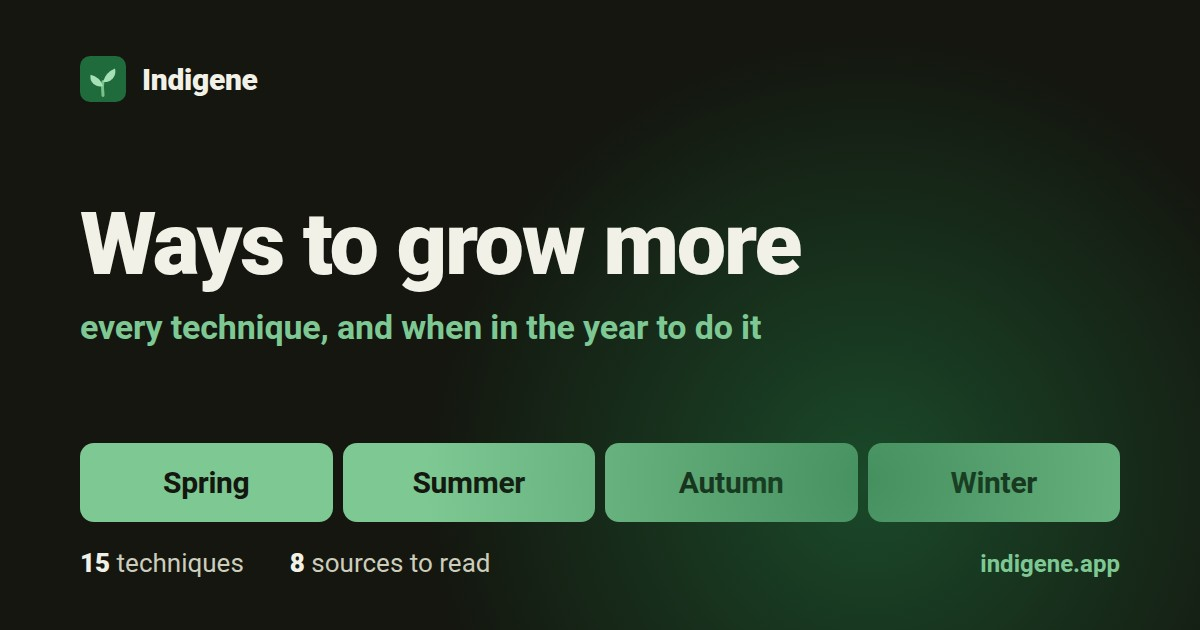
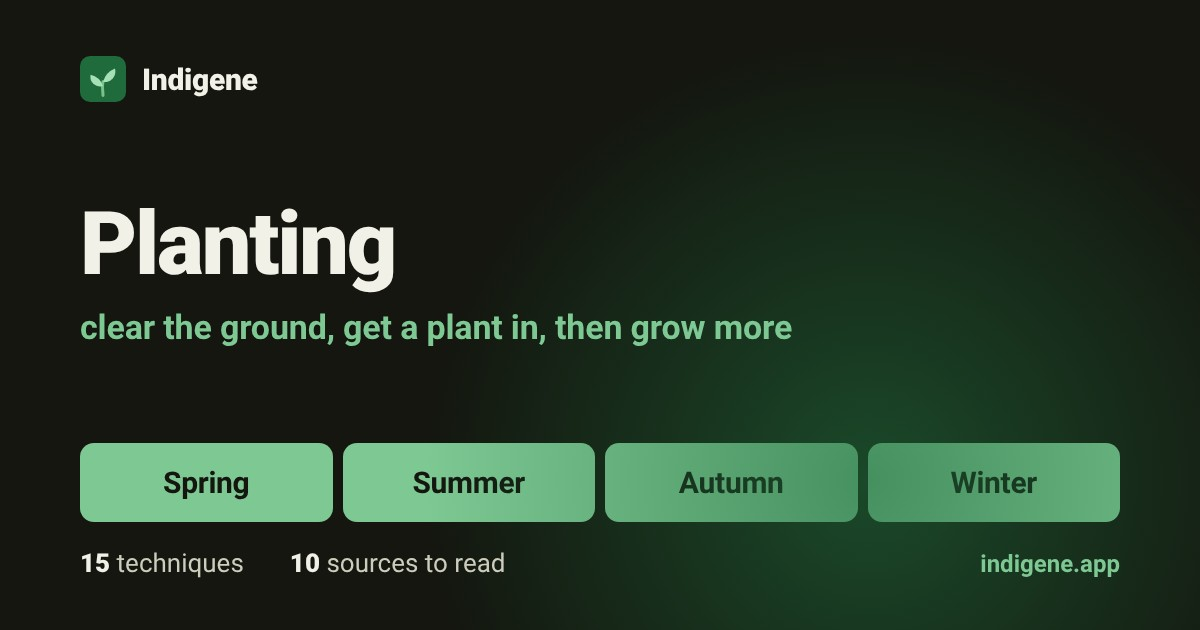
Planting card, links to planting from a pot, and a share button
The Planting page's link preview said Ways to grow more; it now says
Planting. Every plant page's How to grow more card and the lawn guide
link to Planting from a pot. The volunteer page gets a Share this page
button for organizers: the share sheet where there is one, the
clipboard otherwise.

Claude-Session: https://claude.ai/code/session_01Sq9k8BgnwbwYtWVqdCeZQE

diff --git a/app/src/steps/volunteer.ts b/app/src/steps/volunteer.ts
@@ -9,7 +9,7 @@
 // way on.
 //
 // It doesn't overrule the organizer: site rules win, and the page says so.
-import { el, clear } from "../ui";
+import { el, clear, toast } from "../ui";
 import { navigate } from "../state";
 import { t, tx } from "../lib/i18n";
 import type { TKey } from "../locales/en";
@@ -50,6 +50,7 @@ function renderIndex(main: HTMLElement): void {
 
       el("h3", { id: "organizers" }, t("volunteer.orgTitle")),
       el("p", {}, t("volunteer.org1")),
+      el("button", { type: "button", class: "btn btn-secondary btn-block", onClick: () => void share() }, t("volunteer.share")),
       el("p", {}, tx("volunteer.org2", {
         removing: el("a", { href: "#/removing" }, t("volunteer.org2Link")),
       })),
@@ -59,6 +60,19 @@ function renderIndex(main: HTMLElement): void {
       ]),
     ]),
   );
+}
+
+/** Hands the page's link to the phone's share sheet, or copies it. The path
+ *  form, so what an organizer sends previews as this page. */
+async function share(): Promise<void> {
+  const url = `${location.origin}${import.meta.env.BASE_URL}volunteer`;
+  const data = { title: t("volunteer.title"), text: t("volunteer.shareText"), url };
+  if (navigator.share) {
+    await navigator.share(data).catch(() => {});
+    return;
+  }
+  await navigator.clipboard?.writeText(url).catch(() => {});
+  toast(t("plant.linkCopied"));
 }
 
 function renderNotFound(main: HTMLElement, slug: string): void {

diff --git a/app/src/steps/plant.ts b/app/src/steps/plant.ts
@@ -46,7 +46,7 @@ import { anchoredHeading } from "../components/anchor-head";
 import { plantSectionHref, isHashRoute } from "../lib/routes";
 import { privacyNote } from "../components/privacy-link";
 import type { Plant, SiteData, SunEstimate } from "../types";
-import { t, tn, fmtNumber } from "../lib/i18n";
+import { t, tn, tx, fmtNumber } from "../lib/i18n";
 import { length, humanHeightLabel } from "../lib/units";
 import { commonName, nameLines, regionName, regionShort } from "../lib/names";
 import { prose, propagationNote, pioneerNote, isUntranslated, lookalikesUntranslated, alternativesUntranslated } from "../lib/prose";
@@ -1047,6 +1047,10 @@ function propagationSection(p: Plant, regionId: string): HTMLElement {
     el("p", { class: "more-link prop-all" }, [
       el("a", { href: "#/planting" }, `${t("planting.allTechniques")} →`),
     ]),
+    // Growing more ends with a plant to put in the ground; so does buying one.
+    el("p", { class: "more-link prop-all" }, tx("howto.potsWayOn", {
+      link: el("a", { href: "#/planting/pots" }, t("howto.pots.title")),
+    })),
   ]);
 }
 

diff --git a/app/src/steps/lawn.ts b/app/src/steps/lawn.ts
@@ -127,6 +127,10 @@ export async function renderLawn(main: HTMLElement, param?: string): Promise<voi
       p("lawn.mulchLede"),
       el("ol", {}, (["lawn.mulch1", "lawn.mulch2", "lawn.mulch3", "lawn.mulch4", "lawn.mulch5"] as TKey[])
         .map((k) => el("li", {}, t(k)))),
+      // Step five is "dig in"; this is how.
+      el("p", { class: "more-link" }, tx("howto.potsWayOn", {
+        link: el("a", { href: "#/planting/pots" }, t("howto.pots.title")),
+      })),
       el("p", { class: "note warn" }, [
         el("strong", {}, t("lawn.mulchWarnTitle")),
         ...tx("lawn.mulchWarn", { removing: el("a", { href: "#/removing" }, t("lawn.mulchWarnLink")) }),

diff --git a/app/src/locales/en.ts b/app/src/locales/en.ts
@@ -3556,6 +3556,9 @@ export const en = {
   "planting.clearTitle": "Clearing the ground",
   "planting.row.lawn": "Bury the grass under cardboard, then plant.",
   "planting.row.removing": "Whether it should go, when, and whose call it is.",
+  "howto.potsWayOn": "Putting a plant in the ground? See {link}.",
+  "volunteer.share": "Share this page",
+  "volunteer.shareText": "Before the planting, a few minutes of reading:",
 } as const;
 
 /** Every valid string key. Derived, so it can never drift from the strings. */

diff --git a/app/src/locales/fr.ts b/app/src/locales/fr.ts
@@ -3472,4 +3472,7 @@ export const fr: Dict = {
   "planting.clearTitle": "Préparer le terrain",
   "planting.row.lawn": "Enterrer le gazon sous du carton, puis planter.",
   "planting.row.removing": "Faut-il l'enlever, quand, et qui en décide.",
+  "howto.potsWayOn": "Un plant à mettre en terre ? Voyez {link}.",
+  "volunteer.share": "Partager cette page",
+  "volunteer.shareText": "Avant la plantation, quelques minutes de lecture :",
 };

diff --git a/changelog.d/claude-eloquent-sagan-05yg2n.md b/changelog.d/claude-eloquent-sagan-05yg2n.md
@@ -1,6 +1,7 @@
 ### Added
 
 - **[Planting](https://indigene.app/planting) now runs in the order the work does: clear the ground, get a plant in, grow more.** Two new illustrated guides cover planting from a pot and digging among tree roots. Every older link still works.
-- **[Your first planting day](https://indigene.app/volunteer): a page to read before a volunteer planting.** It gathers the planting guides with what to bring and what to do with invasives you pull. Organizers can send the link ahead.
+- **[Your first planting day](https://indigene.app/volunteer): a page to read before a volunteer planting.** It gathers the planting guides with what to bring and what to do with invasives you pull. Organizers get a button to share it.
 - Invasives: [Before you pull a plant](https://indigene.app/removing/disposal) gains a guide to what happens after: which pieces go in a bag, which dry on a pile, and why knotweed roots never go in compost.
+- Plants: every plant's page and [Kill your lawn](https://indigene.app/kill-your-lawn) now link to the guide on planting from a pot.
 - Internal: `lib/howto.ts` holds the guides' sections and sources, each guide living under `planting`, `removing` or `volunteer`; `howto.test.ts` fails a section cited by fewer than two publishers. Figures are a third family in `page-art-svg.mjs`, labelled rather than hidden.
